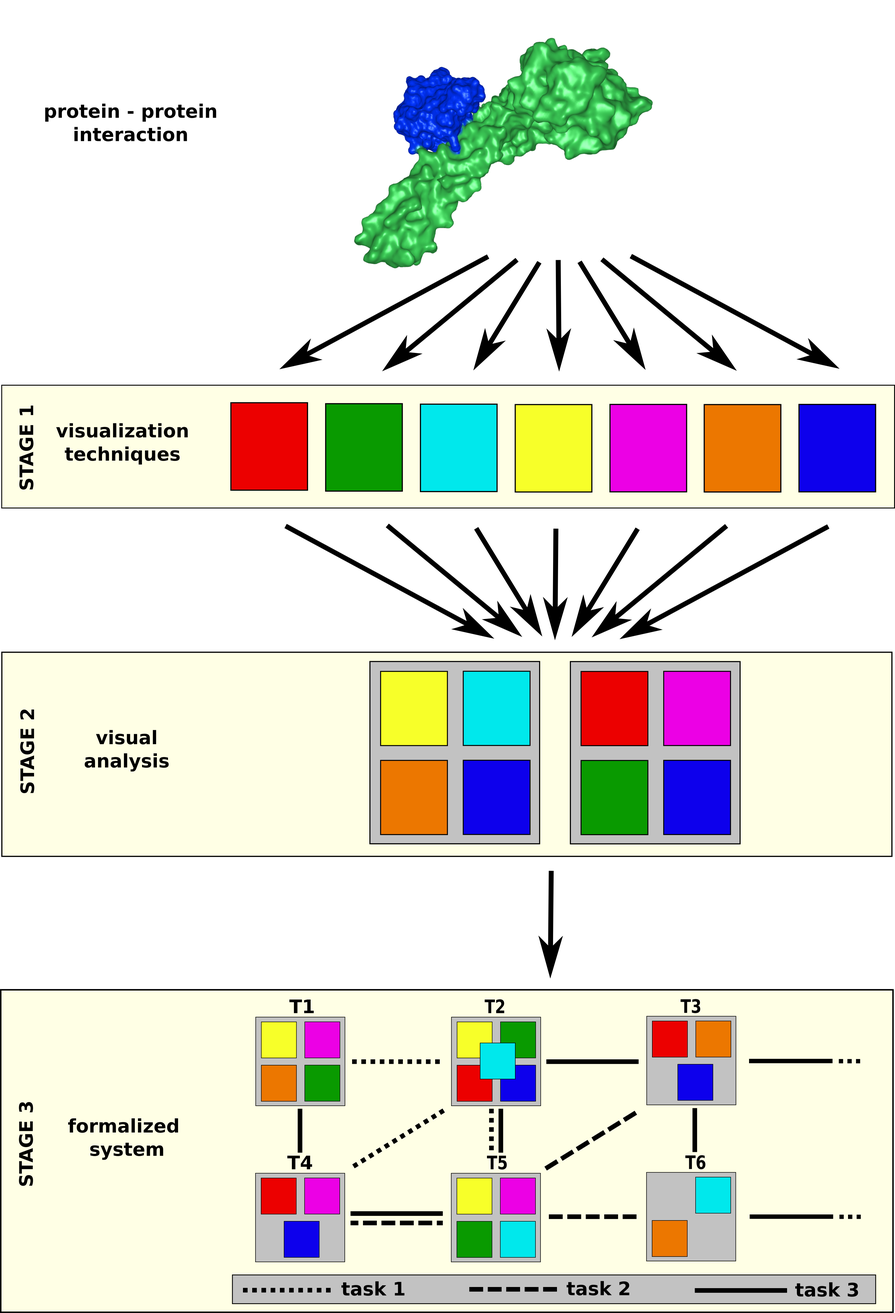
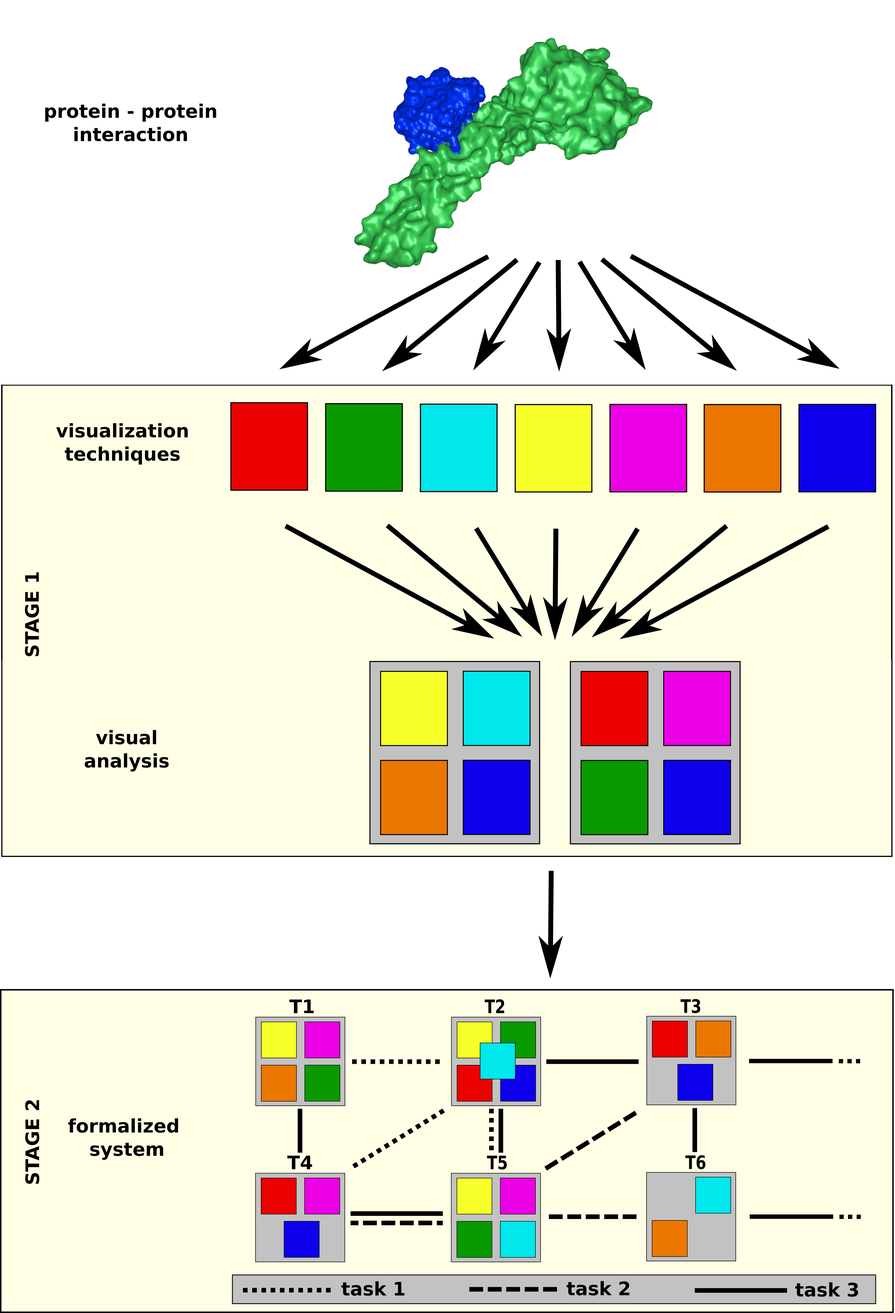
Honza's comments

Changed region(s): [[0.0, 0.2799, 1.0, 0.4976], [0.0, 0.8396, 0.0625, 0.9018], [0.0, 0.5597, 0.0625, 0.5908]]

diff --git a/proposal.tex b/proposal.tex
@@ -13,7 +13,7 @@
 \usepackage[absolute,overlay]{textpos}
 \usepackage{xcolor}
 \usepackage{url}
-
+\usepackage{wrapfig}
 
 \usepackage[font={small,it},labelfont=bf]{caption}
 
@@ -169,8 +169,8 @@ The database currently contains thousands of entries for protein-protein interfa
 
 \begin{figure}[h]
   \centering
-  \includegraphics[width=0.8\textwidth]{pics/pdbsum2.png}
-  \caption{Existing visual representations of the crystal structure of complex with ID 4UX3 stored in the PDBsum database. Left: 3D structure, middle: abstracted representation of the contact zones between the chains, right: detailed interactions between inidividual amino acids.}
+  \includegraphics[width=0.8\textwidth]{pics/pdbsum3.png}
+  \caption{Existing visual representations of the crystal structure of complex SMC3-Scc1 with ID 4UX3 stored in the PDBsum database. Left: 3D structure, middle: abstracted representation of the contact zones between the chains, right: detailed interactions between individual amino acids as represented in the PDBsum database.}
   \label{fig:pdbsum}
 \end{figure}
 
@@ -217,15 +217,15 @@ In other words, based on the input set of the tasks, our newly proposed formalis
 \begin{figure}[htb]
 \centering
 \includegraphics[width=0.5\textwidth]{pics/system.png}
-\caption{Overview of the project outline. In Stage 1 we will focus on designing specific visualizations for given tasks. Stage 2 builds a visual analysis systems consisting of these visualizations. Stage 3 proposes a formalized model of the visual analysis systems which will focus on specific tasks Ti.}
+\caption{Overview of the project outline. In Stage 1 we will focus on designing specific visualizations for given tasks and building visual analysis systems consisting of these visualizations. Stage 2 proposes a formalized model of the visual analysis systems which will focus on specific tasks Ti.}
 \label{fig:system}
 \end{figure}
 
 
-As a part of the research project, the novel visualization technology will be tested with the ongoing biological research at the Department of Functional Genomics and Proteomics, located at the Faculty of Science at the Masaryk University in Brno. 
-The focus of interest of researchers in the CMC group is on SMC (structure maintenance of chromosome), telomere, and other chromatin complexes. 
+As a part of the research project, the novel visualization technology will be tested with the ongoing biological research at the Department of Functional Genomics and Proteomics (DFGP), located at the Faculty of Science at the Masaryk University in Brno. 
+The focus of interest of researchers at DFGP is on SMC (structure maintenance of chromosome), telomere-associated, and other chromatin complexes. 
 The SMC complexes are key players in chromatin organization and dynamics (e.g., the condensin complex ensures a proper condensation of chromosomes -- see Figure~\ref{fig:telomere} taken from Pale\v{c}ek and Gruber~\cite{Palecek2015}) and are the main focus of the Pale\v{c}ek's group.
-Pale\v{c}ek's group (Group of Structural Proteins of Eukaryotic Chromosomes; SPEC). SPEC group analyzes the architecture and function of such complexes using a variety of experimental approaches. 
+Pale\v{c}ek's group (group of Structural Proteins of Eukaryotic Chromosomes; SPEC) group analyzes the architecture and function of such complexes using a variety of experimental approaches. 
 Their goal is to uncover the way how the subunits of these complexes interact with each other and execute unique function(s) of these complexes. 
 Therefore, a visual representation of such information is highly beneficial because it helps to reveal the spatial relationships between the subunits in an intuitive way.
 
@@ -369,9 +369,9 @@ Along with the computational tool, the DCGD team also developed the CAVER Analys
 Here Kozl\'{i}kov\'{a} played a key role in the design of the tool and currently is the leader of the research group of CAVER Analyst. 
 The tool integrates algorithms for fast rendering of molecular structures as well as their tunnels, both for static snapshots as well as for molecular dynamics simulations. 
 
-The second partner, i.e., researchers from the group of Structural Proteins of Eukaryotic Chromosomes (SPEC) at the Masaryk University led by Jan Pale\v{c}ek, has a long term experience in studying protein complexes. 
+The second partner, i.e., researchers from the SPEC group at the Masaryk University led by Jan Pale\v{c}ek, has a long term experience in studying protein complexes (see Pale\v{c}ek's CV). 
 Their efforts are oriented towards SMC complexes \cite{guerineau,hudson,Palecek2015}.
-The DCGD and GSPEC groups already established a fruitful mutual cooperation in the field of protein-protein interactions which is realized via an internal grant of the Masaryk University, started in 2016.
+The DCGD and SPEC groups already established a fruitful mutual cooperation in the field of protein-protein interactions which is realized via an internal grant of the Masaryk University, started in 2016.
 The cooperation involves also PhD students performing a thorough study of existing approaches for protein-protein docking.
 Both research groups are affiliated with the same university so personal meetings are already happening and are easily organized on a regular basis.
  
@@ -399,6 +399,7 @@ It focuses on the analysis and visualization of molecular cavities.
 
 The DCGD and ICGA groups were also successful in obtaining a mutual mobility project (the OeAD ICM through project CZ 17/2015) for 2015 and 2016.
 
+
 %%%%%%%%%%%%%%%%%%%%%%%%%%%%%%%%%%%%%%%%%%%%%%%%%%%%%%%%%%
 % Section: Technical Description ---------------------------------------------
 \section{Technical Description}
@@ -410,11 +411,10 @@ In tight cooperation between the project partners, these problems will be system
 The proposed visual representations will then be designed to fulfill these tasks.
 Such tasks can be, e.g., T1: explore all possible conformations and easily filter out those conformations which are probably biochemically irrelevant, T2: briefly explore the individual conformations and their pairs of amino acids to support the decision process of task T1, T3: explore several conformations in a 3D view, along with the position of their contact zones, T4: explore the shape of the contact zones, T5: explore individual amino acids in the contact zones, their interaction and physico-chemical properties, T6: explore all possible conformations for multidocking, etc.
 
-In the following sections we present the three main goals, divided into three stages of the project, in detail. These stages are:
+In the following sections we present the three main goals, divided into two main stages of the project, in detail. These stages are:
 \begin{itemize}
-\item Defining and systematizing the set of tasks and proposing novel visualization techniques enabling to fulfill these tasks. 
+\item Defining and systematizing the set of tasks and proposing novel visualization techniques enabling to fulfill these tasks. It will be followed by the design of an interactive visual analysis environment which integrates the selected proposed visualizations into one compact tool serving mainly for fast and intuitive exploration of the contact zones between proteins. The complexity of the proposed environment will be reduced by tracking the interaction history with individual views of the visual analysis system.
 %For example, the proposed visualization will enable to explore and compare different solutions for protein-protein interactions. These will be based on 3D views (e.g., exploded views) as well as on semantically driven 2D abstractions.
-\item Proposing an interactive visual analysis environment which integrates the selected proposed visualizations into one compact tool serving mainly for fast and intuitive exploration of the contact zones between proteins. The complexity of the proposed environment will be reduced by tracking the interaction history with individual views of the visual analysis system.
 \item Proposing a formalism of visual analysis systems dealing with heterogeneous data and complex tasks. Such a formalism will categorize the individual visualizations according to the tasks they are able to support. Then it will enable to automatically suggest a set of the most suitable visualizations according to a given set of tasks and these visualizations will be combined into a visual analysis tool.
 \end{itemize}
 
@@ -432,8 +432,8 @@ A promising strategy is to combine these two approaches and, if possible, use th
 
 For this purpose, we plan to design several visual representations which will convey different types of information about the interacting proteins.
 On the highest level, the users should have an overview of all conformations which should be explored. 
-For this purpose we suggest an abstracted interactive representation which enables the user to filter out conformations not fulfilling a given set of criteria (task T1).
-As an example one such criterion could be the required pairs of interacting amino acids. 
+For this purpose, we suggest an abstracted interactive representation which enables the user to filter out conformations not fulfilling a given set of criteria (task T1).
+As an example, one such criterion could be the required pairs of interacting amino acids. 
 Such a representation will combine a matrix-based visualization with additional views highlighting the interacting amino acids in a selected conformation (task T2).
 Figure~\ref{fig:matrix} illustrates these ideas. 
 %It consists of the matrix view and an interactive lens view where each rectangle corresponds to one conformation and for the conformation in the focus (center) the corresponding pairs of amino acids are connected.
@@ -450,22 +450,15 @@ However, as already shown in Figure~\ref{fig:problem}, simple superposition is n
 Therefore we propose to adapt the technique of exploded views (see Figure~\ref{fig:matrix}) which will be equipped with a preview window (task T3).
 In these previews, positioned close to the moved (exploded) protein, we will be able to present different information about the contact zones (tasks T4 and T5).
 Contact zones are very important but easily affected by occlusion problems. 
-Therefore we propose to present a trimmed semi-flattened view of the contact zone (positioned perpendicularly to the user) (Fig.~\ref{fig:preview} left), the neighborhood map of individual amino acids in the contact zone (Fig.~\ref{fig:preview} middle), and their mutual distances using a height map (Fig.~\ref{fig:preview} right).
+Therefore we propose to present a trimmed semi-flattened view of the contact zone (positioned perpendicularly to the user; Fig.~\ref{fig:preview} left), the neighborhood map of individual amino acids in the contact zone (Fig.~\ref{fig:preview} middle), and their mutual distances using a height map (Fig.~\ref{fig:preview} right).
 Here we suggest to embed a simplified contact zone representation into a comprehensive 3D context with the addition of supporting guiding lines.
 For individual conformations, these maps can be also visualized as illustrated in Figure~\ref{fig:map}.
 
 \begin{figure}[ht]
 \centering
-\includegraphics[width=0.7\textwidth]{pics/preview.png}
-\caption{Left: view on the contact zone (should be semi-flattened). Middle: Neighborhood map of individual amino acids in the contact zone. Right: Height map showing the mutual distances between amino acids in the contact zone.}
+\includegraphics[width=0.9\textwidth]{pics/preview.png}
+\caption{a) View on the contact zone (should be semi-flattened). b) Neighborhood map of individual amino acids in the contact zone. c) Height map showing the mutual distances between amino acids in the contact zone. d) For individual conformations, the preview can be positioned between the interacting proteins.}
 \label{fig:preview}
-\end{figure}
-
-\begin{figure}[ht]
-\centering
-\includegraphics[width=0.4\textwidth]{pics/map.png}
-\caption{For individual conformations, the preview can be positioned between the interacting proteins.}
-\label{fig:map}
 \end{figure}
 
 \subsubsection{Visualizing Multidocking Search-Space}
@@ -479,7 +472,7 @@ We will experiment with taking the hypergraph as a basis for a heterogeneous vis
 Even if these will be severely distorted, the visualization will still communicate important geometric, physical, and chemical properties. 
 This way, we will experiment with heterogeneous visualizations where the underlying relationships serve as the basis, and the structure augments further aspects on top of the basis.
 
-As the interacting proteins can form complexes consisting of more than two proteins (results of multidocking), the corresponding visual representations also should face this increased clutter and occlusion challenge.
+As the interacting proteins can form complexes consisting of more than two proteins (results of multidocking), the corresponding visual representations should also face this increased clutter and occlusion challenge.
 The task of the biochemists is to assess the plausibility of a multidocking complex.% (see Figure \ref{fig:multidocking}).
 
 %\begin{figure}[bh]
@@ -494,12 +487,12 @@ Some contact zone candidates will naturally conflict with each other by competin
 We will investigate visualization metaphors such as a pairwise multidocking matrix (see Figure~\ref{fig:multidock2}), where the analyst can choose a particular contact among two proteins (task T6). 
 Attention will be guided to contact zones with other proteins from the same complex, which are affected by \emph{occupying} the surface area by selected interaction. 
 
-\begin{figure}[bh]
-\centering
-\includegraphics[width=0.3\textwidth]{pics/multidock2.png}
-\caption{Interactive multidocking matrix enabling to show the overview of all conformations between proteins P1 -- P5.}
-\label{fig:multidock2}
-\end{figure}
+\begin{wrapfigure}{r}{0.4\textwidth}
+  \begin{center}
+    \includegraphics[width=0.4\textwidth]{pics/multidock2.png}
+  \end{center}
+  \caption{Interactive multidocking matrix enabling to show the overview of all conformations between proteins P1 -- P5.}
+\end{wrapfigure}
 
 During the analysis, the history of contact-zone evaluation will be provided so that the analyst avoids reevaluating already assessed surfaces. 
 Visual guidance has the potential to improve this analytical stage substantially, as minimal-conflict high-probability contact complexes can be suggested to the analyst for a prioritized assessment over scenarios that are far less likely to form a molecular complex.
@@ -518,8 +511,8 @@ Such operations could be: take the worst/best solution, just highlight high-vari
 
 %%%%%%%%%%%%%%%%%%%%%%%%%%%%%%%%%%%%%%%%%%%%%%%%%%%%%%%%%%%%%%%%%%%%%%%%%
 
-\subsection{Stage 2: Visual Analysis of Interactions}
-In the second stage of the project, we will propose several combinations of the visualization techniques proposed in Stage 1, into visual analysis tools aiming to provide the users with an intuitive and interactive environment supporting their tasks.
+\subsubsection{Visual Analysis of Interactions}
+Subsequently, we will propose several combinations of the designed visualization techniques into visual analysis tools aiming to provide the users with an intuitive and interactive environment supporting their tasks.
 However, the input data as well as the tasks can be highly complex which will in consequence lead to too complex visual analysis tools containing too many linked views.
 As a solution to this problem we will propose a semi-automatic simplification of such tools through adaptation.
 It will be based on the tracking of user interaction with a given tool when performing a specific task.
@@ -532,17 +525,17 @@ All visualizations used in the tool will be interlinked and by using advanced br
 
 
 
-\subsection{Stage 3: Formalization of Visual Analysis Systems}
+\subsection{Stage 2: Formalization of Visual Analysis Systems}
 As already mentioned, the input data in our domain of interest is very complex but also highly structured.
 This leads us to the suggestion to systematically formalize the features of this data and their relations.
-Here we will be inspired, by a feature definition language proposed by Doleisch et al.~\cite{Doleisch} who presented a framework for flexible and interactive specification of high-dimensional and complex features in simulation data.
+Here we will be inspired by a feature definition language proposed by Doleisch et al.~\cite{Doleisch} who presented a framework for flexible and interactive specification of high-dimensional and complex features in simulation data.
 It allows the definition of one or several features by brushing multiple dimensions and highlighting the selected features in all linked views.
 In our case, such features of the input data are, e.g., two interacting proteins, a set of interacting proteins (larger than two), contact zones, interacting amino acids, temporal changes of the proteins, etc. 
 
 To propose a formal systematization for such structured data, the overall goal is to enable a systematic exploration of the underlying design space of possible visual representations and interactions.
 Until now, when designing visualizations for a specific target domain, the typical procedure is to perform an analysis of requirements and according to them design the most suitable visualizations for the whole visual analysis system. 
 However, this obviously leads to a constantly repeating process (even for slight task changes) which is based on the same principles and mostly ad-hoc approaches have been used to propose a specific visual representation for a specific task situation at hand.
-Therefore, a drill down into relevant subparts of the highly structured data must by done with typical database queries but with a strong domain semantic from our application area. 
+Therefore, a drill down into relevant subparts of the highly structured data must be done with typical database queries but with a strong domain semantic from our application area. 
 Operations used for the extraction of these subparts could be, e.g., slicing, dicing, projections, aggregations, etc. 
 For each of these operations the appropriate visual templates have to be developed.
 
@@ -550,11 +543,11 @@ The selection of relevant subparts will be driven by the user-defined tasks.
 These tasks are likewise highly complex and are usually formed by the combination of much simpler basic tasks, such as T1, ..., T6 mentioned in the Stage 1 of the proposal. 
 As the set of basic tasks can be large and combining them creates a vast space of possible queries, we need a systematic formalization here as well.
 In order to propose the formal system based on different user tasks, the definition of these tasks has to be structured as well. 
-Therefore, we will specify a domain-specific language for the definition of these tasks which will serve as a meta-language for the automatic selection of relevant visualizations and their integration into the overall visual analysis system.
+Therefore, we will create a domain-specific language for the definition of these tasks which will serve as a meta-language for the automatic selection of relevant visualizations and their integration into the overall visual analysis system.
 The syntax of the language will combine traditional commands of programming languages with naming conventions of the given domain.
 The functions derived from a set of basic as well as complex tasks will form the basis of the semantic meaning of the language.
 
-The visualization of the structured data in the context of the complex tasks provides challenges as well because we have to face problems with occlusion, visual clutter, and heavy overlaps when for example simultaneously comparing several conformations of protein-protein interactions.
+The visualization of the structured data in the context of the complex tasks provides challenges as well, because we have to face problems with occlusion, visual clutter, and heavy overlaps when for example simultaneously comparing several conformations of protein-protein interactions.
 Among the approaches used for solving these problems we plan to use aggregated visual representations which will find the best representative of a set of aligned reference proteins which are very similar with respect to their spatial orientation (see the set of aligned reference proteins in green in Figure~\ref{fig:problem}).
 The representative can be selected, e.g.,  as the median, average, or the most central from all the representations of the reference protein.
 For distributions of a single random variable, box plots are already widely used (and already extended to curves).
@@ -614,7 +607,7 @@ Similarly, other complexes studied at the group of DFGP (e.g., telomere-associat
 The project management can be divided into research activities and project administration.
 The research activities will be coordinated by Barbora Kozl\'{i}kov\'{a} and Ivan Viola. 
 They will be responsible for the scientific results and progress of the project.
-The administration of the project will be managed by Barbora Kozl\'{i}kov\'{a} and Ivan Viola, the representatives of the project on the Czech and Austrian site. 
+The administration of the project will be managed by Barbora Kozl\'{i}kov\'{a} and Ivan Viola, the representatives of the project on the Czech and Austrian side, respectively. 
 Dr. Kozl\'{i}kov\'{a} and Prof. Viola will be responsible for the scientific and financial reports, which will be prepared jointly by both partners and their financial administrators. 
 
 The coordination of both partners will be carried out by frequent meetings. 
@@ -623,7 +616,6 @@ This includes a database for storing joint literature and publications and joint
 The shared database and repositories will be maintained using the graphical workstation required for this project. 
 Moreover, we will organize regular project meetings (four meetings of the whole project team per year) and yearly workshops, where our latest results will be presented to colleagues and students at the corresponding departments. 
 We will also establish a collaboration on an institutional level, where we will arrange several reciprocal internships of young researchers (via mobility projects or the ERASMUS+ study program). 
-
  
 The initial project meeting will be organized in January 2017 in Brno, the project end meeting will be held in Vienna. 
 Regular meetings will be held in Vienna, in Brno or half way between these two cities, in Mikulov.
@@ -643,12 +635,10 @@ The project timetable, illustrated in Figure \ref{timetable}, details the time s
 \end{figure}
 
 Stage 1 will be coordinated by Dr. Kozl\'{i}kov\'{a}. 
-In this stage, a very tight cooperation with experts from DFGP will be crucial, so the personal meetings between members of DCGD and SPEC will be held on a regular (weekly) basis. 
+In this stage, a very tight cooperation with experts from SPEC will be crucial, so the personal meetings between members of DCGD and SPEC will be held on a regular (weekly) basis. 
 The design of the novel methods will gain from the experience of the ICGA group, and the preliminary results will be immediately tested and evaluated by the SPEC group. 
-Stage 2 partially overlaps with the first stage as the newly developed techniques will be used in this stage.
-The coordination and work planning will also be similar to the first stage. Dr. Kozl\'{i}kov\'{a} will be responsible for the coordination of the research activities, Prof. Viola will concentrate on the design of the visual analysis tools, and Dr. Pale\v{c}ek will be responsible for coordinating the evaluation and testing phase.
-Stage 3 will be coordinated by Prof. Viola and along with Dr. Kozl\'{i}kov\'{a} and their teams they will cooperate on the design of the proposed formal system. 
-The design of the system will highly depend on the user requirements which will come from Dr. Pale\v{c}ek.
+Stage 2 will be coordinated by Prof. Viola and along with Dr. Kozl\'{i}kov\'{a} and their teams they will cooperate on the design of the proposed formal system. 
+The design of the system will highly depend on the user requirements which will come from Dr. Pale\v{c}ek who will be also responsible for coordinating the evaluation and testing phase.
 
 All proposed methods will be integrated into one software framework, CAVER Analyst. This activity will be coordinated and mostly implemented by Dr. Kozl\'{i}kov\'{a} as her research group is the author of this software tool. The methods will be intensively tested on the SMC complexes and this testing will take place throughout the entire project.
 
@@ -665,13 +655,13 @@ Moreover, the project will be promoted at the publicly available annual Research
 Risks with respect to the quality and usability of project outputs are related to the performance of the created framework,  individual proposed methods, and the accuracy and scalability of the developed methods. Other risks are: the graphical user interface (GUI) of the framework will not be accepted by domain experts, some of the proposed visualization methods will suffer from visual clutter, the proposed interaction techniques will be too complex, there will be still unknown limitations in the target domain preventing to create a sufficient formal system.
 To avoid these problems, we will profit from our previous experience in creating optimized accurate software tools \cite{caver}, as well as in designing domain specific visualization, GUI and interaction \cite{analyst}, and many years of expertise in the visualization and visual analysis domain (ICGA). 
 
-Numerous structures of protein complexes are available in the PDBsum database, therefore, if the SMC complex focus fails we can refocus on to the other SPEC studied complexes or any PDBsum (chromatin-associated) complex familiar to Dr. Pale\v{c}ek. 
+Numerous structures of protein complexes are available in the PDBsum database, therefore, if the SMC complex focus fails we can refocus on to the other DFGP studied complexes or any PDBsum (chromatin-associated) complex familiar to Dr. Pale\v{c}ek. 
 % Section: Research Institution -----------------------------------------------
 \section{Research Institution}
 \label{sec:ResearchInstitution}
 
 \subsection{Location}
-On the Austrian side, the research will take place at the Computer Graphics Group of the Institute of Computer Graphics and Algorithms (ICGA), Vienna University of Technology, which performs extensive fundamental and applied research in computer graphics and visualization. 
+On the Austrian side, the research will take place at the Computer Graphics Group of ICGA, Vienna University of Technology, which performs extensive fundamental and applied research in computer graphics and visualization. 
 Its areas of expertise are modeling and rendering, scientific visualization, virtual environments, and computer animation. In the field of scientific visualization the research is focused on advancing medical visualization, in particular medical ultrasound, illustrative visualization, knowledge-assisted visualization, visual analysis of parameter spaces, and point-based visualization. The Visualization Group at ICGA has also developed and implemented an open-source visualization prototyping environment, i.e., VolumeShop. In the area of scientific visualization there are long standing cooperations with the Austrian Academy of Sciences, the General Hospital in Vienna, VRVis, Austria; University of California, Stanford University, USA; University of T\"{u}bingen, University of Stuttgart, University of Rostock, University of Magdeburg, Germany; INRIA Research Institute, University Joseph Fourier, France;  University of Girona, Spain; TU Budapest, Hungary; CTU Prague, Masaryk University in Brno, Czech Republic; Comenius University in Bratislava, Slovakia; and University of Bergen, Norway.
 
 The Czech part of the team consists of two departments at the Masaryk University in Brno.
